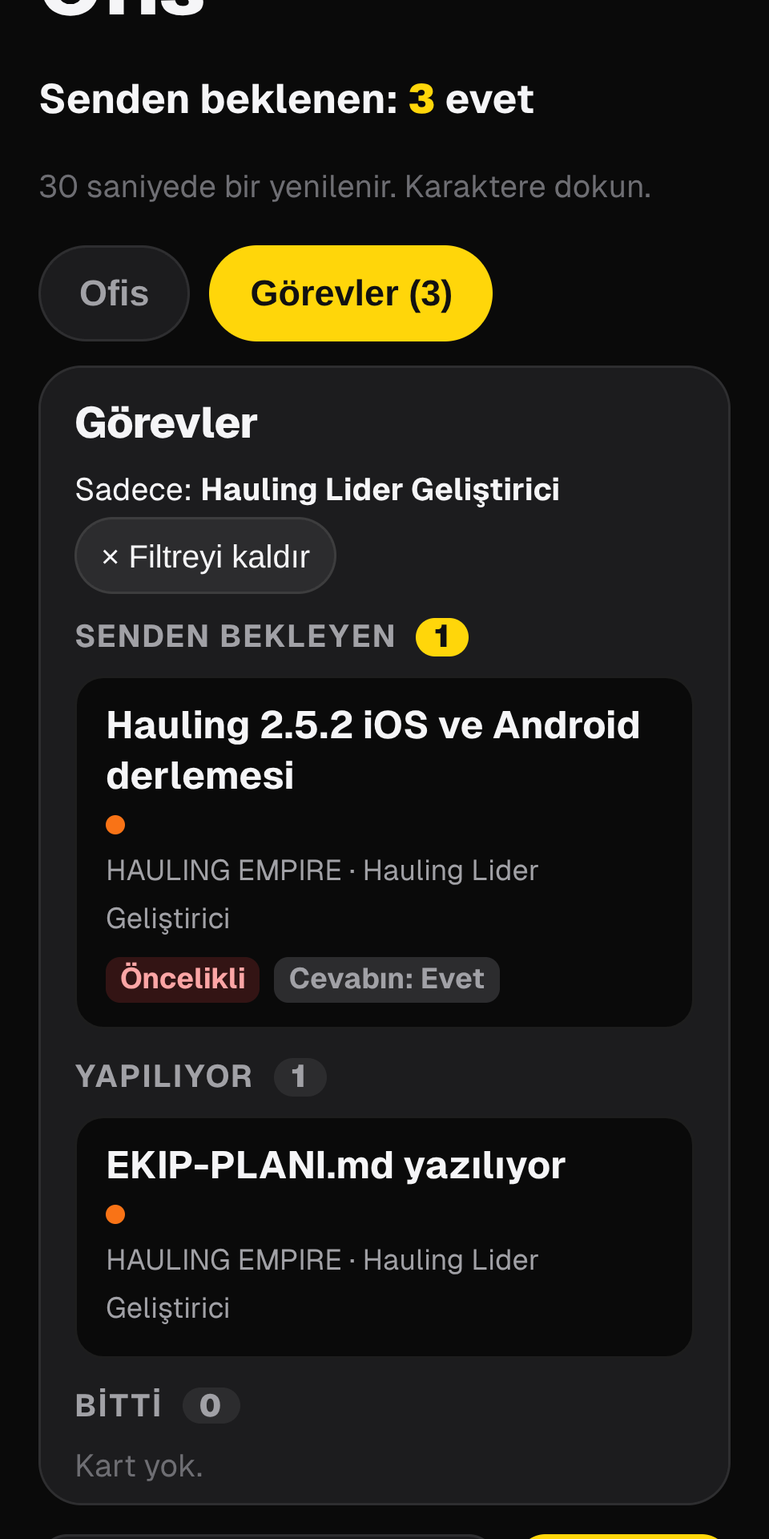
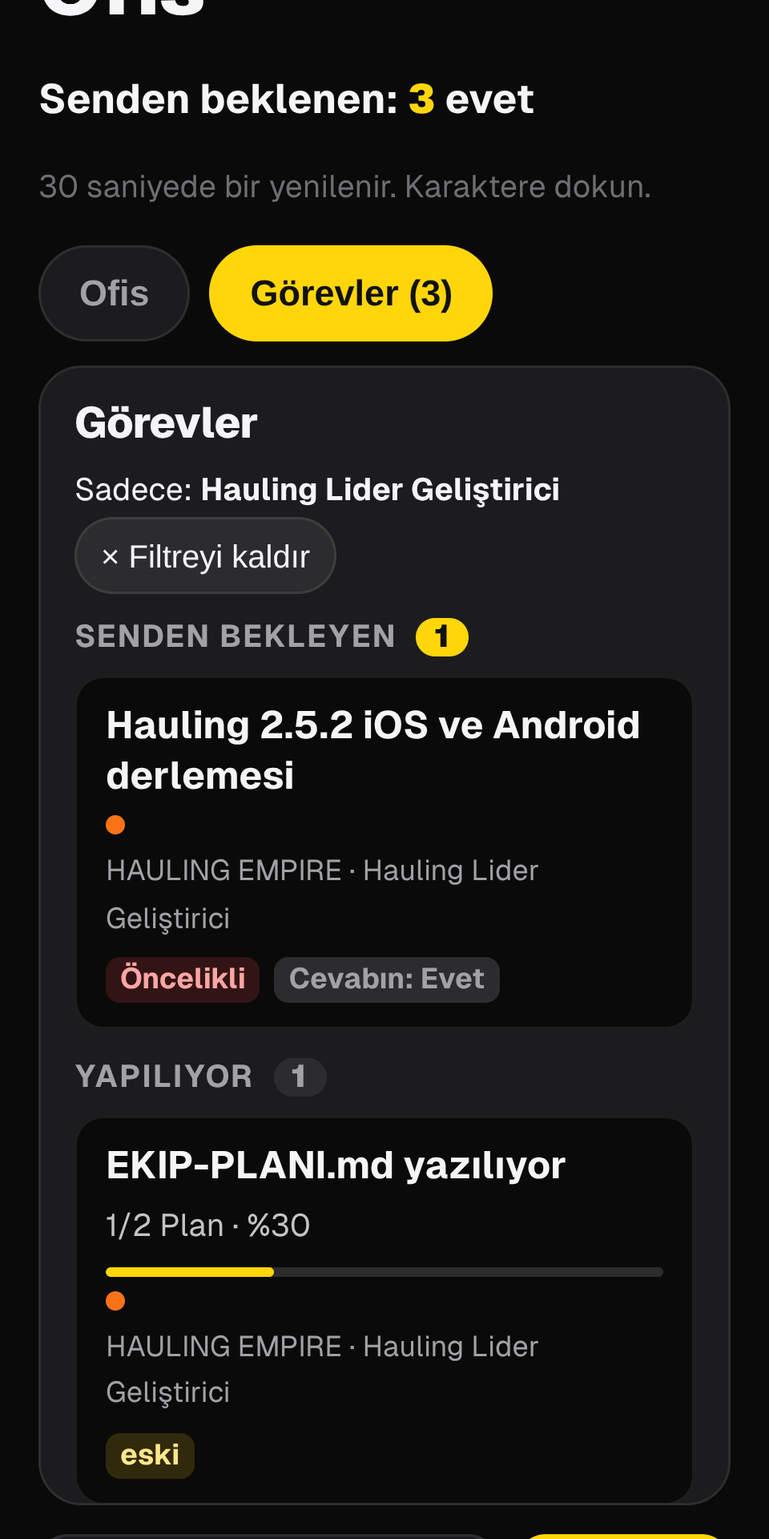
Admin Ofis: stage, progress and timeline on task cards (migration 0004, not applied)
office_tasks.stage and progress plus office_task_log; GET /v1/admin/office returns them with the last 10
timeline lines per open card and falls back to the old select until 0004 is applied. Cards show a stage
line and a progress bar, the drawer shows Geçmiş, doing cards untouched for 2 hours get an eski tag. Tests
and a screenshot. Not deployed.

Claude-Session: https://claude.ai/code/session_016Jsgeai3nmEVrWzNSNYGkb

diff --git a/web/landing/public/admin-office.js b/web/landing/public/admin-office.js
@@ -229,6 +229,11 @@ const tabCount = document.getElementById("of-tab-count");
 let boardFilter = null, openTaskId = null;
 const projectOf = (key) => (key === "ceo" ? CEO_DEPT : DEPTS.find((d) => d.key === key)) || { name: String(key || "-").toLocaleUpperCase("tr"), color: "#94a3b8" };
 const agentName = (id) => { const a = agents.find((x) => x.id === id); return a ? shortName(a.role) : id || "-"; };
+// Stage and timeline (founder 2026-11-14). A card in "Yapılıyor" untouched for 2 hours gets an "eski" tag.
+const STALE_MS = 2 * 60 * 60 * 1000;
+const lastTouch = (t) => Math.max(Date.parse(t.updated_at || "") || 0, ...(t.log || []).map((l) => Date.parse(l.at || "") || 0));
+const isStale = (t) => t.status === "doing" && lastTouch(t) > 0 && Date.now() - lastTouch(t) > STALE_MS;
+const pct = (t) => (Number.isFinite(Number(t.progress)) && t.progress !== null && t.progress !== "" ? Math.max(0, Math.min(100, Math.round(Number(t.progress)))) : null);
 const byPriority = (x, y) => (x.priority ?? 3) - (y.priority ?? 3) || String(x.created_at).localeCompare(String(y.created_at));
 function renderBoard() {
   if (!colsEl) return;
@@ -248,9 +253,12 @@ function renderBoard() {
       const p = projectOf(t.project);
       const b = el("button", { type: "button", class: "of-card", "data-task": t.id },
         el("span", { class: "of-card-t" }, t.title),
+        t.stage ? el("span", { class: "of-card-s" }, t.stage + (pct(t) !== null ? ` · %${pct(t)}` : "")) : null,
+        pct(t) !== null ? el("span", { class: "of-prog", role: "progressbar", "aria-valuenow": String(pct(t)), "aria-valuemin": "0", "aria-valuemax": "100", "aria-label": "İlerleme" }, el("i", { style: `width:${pct(t)}%` })) : null,
         el("span", { class: "of-card-m" }, el("i", { style: `--c:${p.color}` }), p.name, " · ", agentName(t.assignee_id),
           (t.priority ?? 3) === 1 ? el("span", { class: "of-pri" }, "Öncelikli") : null,
           t.fromAgent ? el("span", { class: "of-ans" }, "Oturumdan") : null,
+          isStale(t) ? el("span", { class: "of-old", title: "2 saattir güncelleme yok" }, "eski") : null,
           t.owner_answer ? el("span", { class: "of-ans" }, t.owner_answer === "yes" ? "Cevabın: Evet" : "Cevabın: Hayır") : null));
       b.addEventListener("click", () => openTask(t.id));
       return el("li", {}, b);
@@ -268,8 +276,17 @@ function openTask(id, keepNote) {
   const row = (k, v) => [el("dt", {}, k), el("dd", {}, v || "-")];
   document.getElementById("of-d-meta").replaceChildren(...row("Proje", p.name), ...row("Kimde", agentName(t.assignee_id)),
     ...row("Durum", TASK_STATUS[t.status] || t.status), ...row("Tür", KIND[t.kind] || t.kind), ...row("Öncelik", String(t.priority ?? 3)),
+    ...(t.stage ? row("Aşama", t.stage) : []), ...(pct(t) !== null ? row("İlerleme", "%" + pct(t)) : []),
+    ...row("Son hareket", ((ms) => (ms ? ny(new Date(ms).toISOString()) : "-"))(lastTouch(t) || Date.parse(t.created_at || "") || 0) + (isStale(t) ? " (2 saattir güncelleme yok)" : "")),
     ...row("Açıldı", ny(t.created_at)), ...(t.owner_answer ? row("Cevabın", (t.owner_answer === "yes" ? "Evet" : "Hayır") + (t.owner_note ? ": " + t.owner_note : "") + " (" + ny(t.answered_at) + ")") : []));
   document.getElementById("of-d-detail").textContent = t.detail || "";
+  // Timeline, newest first, New York time.
+  const hist = document.getElementById("of-d-hist"), log = t.log || [];
+  if (hist) {
+    hist.hidden = !log.length;
+    document.getElementById("of-d-log").replaceChildren(...[...log].sort((a, b) => String(b.at).localeCompare(String(a.at)))
+      .map((l) => el("li", {}, el("time", { datetime: l.at }, ny(l.at)), l.text)));
+  }
   const box = document.getElementById("of-d-answer");
   const oldNote = keepNote ? document.getElementById("of-d-note")?.value : null;
   if (t.status === "waiting_owner") {

diff --git a/web/landing/src/index.js b/web/landing/src/index.js
@@ -1247,6 +1247,12 @@ body.of-bare{margin:0;overflow:hidden}.of-fullpage{padding:0;margin:0;max-width:
 .of-pri{padding:0 6px;border-radius:6px;background:rgba(239,68,68,.18);color:#fca5a5;font-weight:700}
 .of-ans{padding:0 6px;border-radius:6px;background:var(--surface-2);color:inherit;font-weight:700}
 .of-col.done .of-card{opacity:.7}
+.of-card-s{display:block;margin-top:5px;font-size:13px;color:var(--fg,#e4e4e7);opacity:.85;overflow-wrap:anywhere}
+.of-prog{display:block;height:4px;margin-top:6px;border-radius:99px;background:var(--surface-2);overflow:hidden}.of-prog i{display:block;height:100%;border-radius:99px;background:var(--lime)}
+.of-old{padding:0 6px;border-radius:6px;background:rgba(250,204,21,.16);color:#fde68a;font-weight:700}
+.of-d-hist{margin:14px 0 0}.of-d-hist h4{margin:0 0 6px;font-size:14px;color:var(--muted)}
+.of-d-log{list-style:none;margin:0;padding:0 0 0 12px;border-left:2px solid var(--line);display:grid;gap:8px}
+.of-d-log li{font-size:14px;line-height:1.4;overflow-wrap:anywhere}.of-d-log time{display:block;font-size:12px;color:var(--muted)}
 .of-drawer{position:absolute;inset:0;padding:14px;background:var(--surface);overflow:auto}
 .of-d-back{min-height:40px;padding:0 12px;border-radius:10px;border:1px solid var(--line);background:var(--surface-2);color:inherit;font-weight:700;cursor:pointer;margin:0 0 10px}
 .of-drawer h3{margin:0 0 8px;font-size:18px;overflow-wrap:anywhere}.of-drawer dl{display:grid;grid-template-columns:auto 1fr;gap:4px 10px;margin:0 0 10px;font-size:14px}.of-drawer dt{color:var(--muted)}.of-drawer dd{margin:0;overflow-wrap:anywhere}
@@ -1272,7 +1278,7 @@ body.of-bare{margin:0;overflow:hidden}.of-fullpage{padding:0;margin:0;max-width:
     ? '<a class="of-tool" href="/admin/office">‹ Panele dön</a><button type="button" class="of-tool" id="of-board-toggle" aria-controls="of-board" aria-expanded="true">Görevler</button>'
     : '<button type="button" class="of-tool" id="of-full-btn">Tam ekran</button><a class="of-tool" href="/admin/office/full" target="_blank" rel="noopener">Yeni sekmede aç</a>'}<button type="button" class="of-tool of-tool-x" id="of-full-x" hidden>Kapat ×</button></div><div class="of-panel" id="of-panel" role="dialog" aria-modal="false" aria-labelledby="of-p-title"><button type="button" class="of-close" id="of-close" aria-label="Kapat">×</button><h2 id="of-p-title"></h2><dl id="of-p-body"></dl></div></div>
 <section class="of-board" id="of-board" aria-label="Görevler"><div class="of-b-head"><h2>Görevler</h2><p class="of-b-filter" id="of-b-filter" hidden></p></div><div id="of-b-cols"><p class="dim">Görev tablosu henüz yok.</p></div>
-<div class="of-drawer" id="of-drawer" role="dialog" aria-modal="false" aria-labelledby="of-d-title" hidden><button type="button" class="of-d-back" id="of-d-back">‹ Görevler</button><h3 id="of-d-title"></h3><dl id="of-d-meta"></dl><p class="of-d-detail" id="of-d-detail"></p><div id="of-d-answer"></div></div></section>
+<div class="of-drawer" id="of-drawer" role="dialog" aria-modal="false" aria-labelledby="of-d-title" hidden><button type="button" class="of-d-back" id="of-d-back">‹ Görevler</button><h3 id="of-d-title"></h3><dl id="of-d-meta"></dl><p class="of-d-detail" id="of-d-detail"></p><div id="of-d-answer"></div><section class="of-d-hist" id="of-d-hist" hidden><h4>Geçmiş</h4><ol class="of-d-log" id="of-d-log"></ol></section></div></section>
 </div>
 <form class="of-note" id="of-note"><label for="of-note-text">CEO'ya not bırak</label><textarea id="of-note-text" name="text" maxlength="1000" rows="1" placeholder="CEO'ya not bırak" required></textarea><button type="submit">Gönder</button></form>
 <p class="of-note-msg dim" id="of-note-msg" aria-live="polite"></p>

diff --git a/services/api/src/index.js b/services/api/src/index.js
@@ -1100,14 +1100,31 @@ app.get("/v1/admin/office", async (c) => {
     ).all()).results;
   } catch { mail = []; } // table not there yet
   // Task board (migration 0003): open cards plus cards finished in the last 7 days. null = table not there yet.
+  // Stage, progress and the last 10 timeline lines per card come with migration 0004 (founder 2026-11-14); before it
+  // is applied the older select still works and the cards simply have no stage or timeline.
   let tasks = null;
+  const taskWhere = `from office_tasks where status != 'done' or updated_at >= strftime('%Y-%m-%dT%H:%M:%fZ', 'now', '-7 days')
+       order by priority, created_at limit 300`;
+  const taskCols = "id, title, detail, project, assignee_id, status, kind, priority, owner_answer, owner_note, answered_at, created_at, updated_at";
   try {
-    tasks = (await c.env.OFFICE_DB.prepare(
-      `select id, title, detail, project, assignee_id, status, kind, priority, owner_answer, owner_note, answered_at, created_at, updated_at
-       from office_tasks where status != 'done' or updated_at >= strftime('%Y-%m-%dT%H:%M:%fZ', 'now', '-7 days')
-       order by priority, created_at limit 300`,
-    ).all()).results;
-  } catch { tasks = null; }
+    tasks = (await c.env.OFFICE_DB.prepare(`select ${taskCols}, stage, progress ${taskWhere}`).all()).results;
+  } catch {
+    try { tasks = (await c.env.OFFICE_DB.prepare(`select ${taskCols} ${taskWhere}`).all()).results; } catch { tasks = null; }
+  }
+  if (tasks && tasks.length) {
+    try {
+      const logs = (await c.env.OFFICE_DB.prepare(
+        `select task_id, at, text from (
+           select l.task_id, l.at, l.text, row_number() over (partition by l.task_id order by l.at desc) as n
+           from office_task_log l join office_tasks t on t.id = l.task_id
+           where t.status != 'done' or t.updated_at >= strftime('%Y-%m-%dT%H:%M:%fZ', 'now', '-7 days')
+         ) where n <= 10 order by task_id, at desc`,
+      ).all()).results;
+      const byTask = {};
+      for (const l of logs) (byTask[l.task_id] ||= []).push({ at: l.at, text: l.text });
+      for (const t of tasks) t.log = byTask[t.id] || [];
+    } catch { for (const t of tasks) t.log = []; } // timeline table not there yet
+  }
   // The founder's own notes with their status and the CEO's answer (founder 2026-11-13), newest first, read only.
   let notes = [];
   try {

diff --git a/CLAUDE.md b/CLAUDE.md
@@ -10,7 +10,7 @@ Status: validation stage. **promovote.com landing page is LIVE** (waitlist).
 ## Live infrastructure (Cloudflare)
 * Landing page: `web/landing/` (Cloudflare Worker + static assets). Deploy: `cd web/landing && npx wrangler deploy`. Custom domains promovote.com and www (www 301 to apex).
 * Waitlist: D1 `promovote-waitlist`, table `waitlist` (email, role, link, country, created_at). Count: `npx wrangler d1 execute promovote-waitlist --remote --command "SELECT role, COUNT(*) FROM waitlist GROUP BY role"`.
-* Admin: `promovote.com/admin` (HTTP Basic auth, password = Worker secret `ADMIN_PASSWORD` set by the founder in the dashboard; Claude does not know it). Navigation (founder request 2026-10-15): four product buttons (Durum, PromoVote, Hauling Empire, Poleris), then that product's pages. `/admin` is the status page (green / yellow / red per product, lists feed sections the product does not send yet). Pages (Turkish, founder request 2026-10-12): `/admin/bekleme` waitlist + CSV (`/admin/export.csv`), `/admin/visitors` (14 days), `/admin/x` (X posts and stats, read only from `promovote-db` via binding `APPDB`), `/admin/app-store` and `/admin/google-play` (Hauling Empire stats from its Supabase function `store-stats`, key in Worker secret `HE_STATS_KEY`, 1 h cache, plus a 30 day sales card), `/admin/hauling-empire/oyun` (in-game feed `store-stats?feed=ops`: online now, days, sales Apple and Google apart, products, subscriptions, online, funnel, health with color rules; 5 min cache). 7 / 30 / 90 day filter via `?range=`. Store pages have a product switcher `?p=haulingempire|poleris|promovote`; Poleris and PromoVote read `metrics_daily` (migration 0020), filled every 12 h by `services/api/src/stats.js` (Apple daily sales reports with key `ASC_STATS_*`, vendor 94642380; Google Play report files from bucket `PLAY_REPORTS_BUCKET` with `GOOGLE_PLAY_SA_JSON`) for all founder apps (PromoVote, Poleris, Hauling Empire, Dovelet, formerly Lovelet, internal id `lovelet`: Apple 6824002542, Play com.mhokutan.coupleapp, added 2026-10-17; Dovelet also gets its own ops feed later, key `LOVELET_STATS_KEY` made on the founder's computer, prompt `docs/prompts/lovelet-promovote.md`). Poleris stats endpoint (its own Supabase function `gcbcaunmxznaixwnnfux.supabase.co/functions/v1/store-stats`, same contract) uses Worker secret `POLERIS_STATS_KEY`; page `/admin/poleris/uygulama`, app tiles on its store pages; prompts in `docs/prompts/`. Plan for all products in `docs/09-metrics-hub.md`. Ad revenue page `/admin/unity-ads` (Hauling Empire group, founder request 2026-10-17; nav label "Reklam geliri"): LevelPlay Reporting API first when Worker secrets `LEVELPLAY_SECRET_KEY` and `LEVELPLAY_REFRESH_TOKEN` exist (same numbers as the LevelPlay site, all networks, 15 min cache, founder request 2026-10-22), else Unity Monetization Stats API (CSV, org level, split by game, platform, country, 1 h cache), Worker secrets `UNITY_ADS_KEY` and `UNITY_ORG_ID` entered by the founder. Store reviews page `/admin/yorumlar?p=<product>` (founder request 2026-11-09, "Yorumlar" in each product group, plus a status card): table `store_reviews` in `promovote-db` (migration 0023), filled by `services/api/src/reviews.js` on the `0 * * * *` job, one app per run, each about every 6 h; Apple from the App Store Connect API customerReviews with the `ASC_STATS_*` key (all countries, with your replies; the public RSS feed answers 403 to Workers and is only a fallback), Google from the monthly `reviews/` CSV in the Play reports bucket; reviewer names and devices are never stored; read only, replies stay in the store consoles. Office page `/admin/office` (founder request 2026-11-12, under Durum): the founder's Claude sessions in a roofless floor plan (version 2, 2026-11-12: one room per unit with half height walls, door gap and name board, project colors Hauling orange, Dropolis blue, PromoVote purple, Dovelet pink, shared units green, light wood floor; CC0 models only, Quaternius furniture and Kenney Mini Characters in `public/office/models`, sources in `web/landing/CREDITS.md`, under 5 MB; working types at the desk, idle sits back, waiting_owner stands with a yellow "!", blocked red light and "takıldı", offline room dark; a new office_agents row opens a new room; three.js 0.160.0 plus GLTFLoader, SkeletonUtils, OrbitControls vendored in `public/vendor`, script `public/admin-office.js`, plain list fallback, 30 s refresh; admin pages allow blob: images for the model textures). Data: its own D1 database `office-db` (founder decision 2026-11-12, nothing of the office in promovote-db), tables `office_agents` and `office_notes` (`services/api/office-migrations/0001_office.sql`); created, migrated and live since 2026-11-12, id `3419c845-6e07-4dca-97de-dde5446bf70f`, binding `OFFICE_DB` on promovote-api. Written only by the CEO session directly with the D1 tool (no write endpoint), read through `GET /v1/admin/office` on the API (SELECT only, `ADMIN_API_TOKEN`). Version 2 of the 3D view is live since 2026-11-12 (promovote-landing 2ea316c2). Version 3 (founder request 2026-11-13, live since 2026-11-13: promovote-api ac7e4a1c, promovote-landing fa6e829a): isometric open plan with white outer walls and windows, glass rooms per department (HAULING EMPIRE orange, DROPOLIS blue, PROMOVOTE purple, DOVELET pink, ORTAK BİRİMLER green, GENEL MÜDÜR next to the lounge, SALESFORCE teal and DOPAZON coral (2026-11-13), DİĞER for unknown ids, one empty room for later). Version 3.1 (52 person team, live since 2026-11-13: promovote-api 92dbaca4, promovote-landing 81b228ec): departments by id prefix and rooms sized by member count (mapping in `docs/office-ceo.md`; adds MAĞAZA VE BÜYÜME amber, SOSYAL MEDYA magenta, TEST PANELİ indigo), model tag from the brackets in role, bubbles shrink to status dots when space is short, API returns up to 200 rows, name bubbles with status dots, bottom bar "CEO'ya not bırak" (the only write: office_notes status new, `POST /admin/office/note` same origin, then `POST /v1/admin/office/notes`), mail walk animation from table `office_mail` (migration `office-migrations/0002_office_mail.sql`, applied 2026-11-13; last 10 minutes; shown ids kept in the browser). Task board "Görevler" (founder request 2026-11-13, code live since 2026-11-13: promovote-api fc805117, promovote-landing 757f6309): columns Senden bekleyen / Yapılıyor / Bitti / Takıldı from table `office_tasks` (migration `office-migrations/0003_office_tasks.sql`, applied 2026-11-13 through the Cloudflare D1 tool because the cloud session wrangler token has no D1 access; recorded by hand in `d1_migrations` so wrangler stays in sync), cards by priority then age, click a card for a drawer, waiting_owner cards get Evet/Hayır plus a note (the only new write: `POST /admin/office/task/:id/answer` same origin, then `POST /v1/admin/office/tasks/:id/answer`, sets only owner_answer/owner_note/answered_at on a waiting card), a tab on phone, a click on a person filters the board. CEO writes cards with the D1 tool. Fix 2026-11-13 (founder: list showed asks, board was empty): sessions asking on their own row (status waiting_owner or needs_owner) without an unanswered waiting card also show in "Senden bekleyen" with an "Oturumdan" tag; their Evet / Hayır is sent as an office_notes row ("EVET (<id>, <name>): <ask>"), remembered in that browser only; "Senden beklenen" counts both. "Notların" (2026-11-13): under the note box the founder sees the last 30 notes with status (Yeni / Okundu / Cevaplandı) and the CEO's answer, read only (GET /v1/admin/office returns `notes`). The CEO checks office_notes and office_tasks every 30 minutes (CEO side, 2026-11-13). Fix and Notların live since 2026-11-13 (promovote-api 02b8a19f, promovote-landing d21bceac). Big view (founder request 2026-11-13, live since 2026-11-13 with the same versions): "Tam ekran" button on the stage (Fullscreen API, falls back to covering the window on iOS Safari; Esc or "Kapat" leaves) and "Yeni sekmede aç" to `/admin/office/full` (same admin login, only the 3D office and the board as a side panel that opens and closes, whole window); drag pans, wheel and pinch zoom toward the pointer, right drag turns; on a stage 1400 px or wider idle and offline people get names when there is room. Screenshots in `docs/office-screenshots/`. CEO note in `docs/office-ceo.md`, tests `node --test web/landing/tests/office.test.mjs`. `keep_vars` is on; dashboard values must be Secrets.
+* Admin: `promovote.com/admin` (HTTP Basic auth, password = Worker secret `ADMIN_PASSWORD` set by the founder in the dashboard; Claude does not know it). Navigation (founder request 2026-10-15): four product buttons (Durum, PromoVote, Hauling Empire, Poleris), then that product's pages. `/admin` is the status page (green / yellow / red per product, lists feed sections the product does not send yet). Pages (Turkish, founder request 2026-10-12): `/admin/bekleme` waitlist + CSV (`/admin/export.csv`), `/admin/visitors` (14 days), `/admin/x` (X posts and stats, read only from `promovote-db` via binding `APPDB`), `/admin/app-store` and `/admin/google-play` (Hauling Empire stats from its Supabase function `store-stats`, key in Worker secret `HE_STATS_KEY`, 1 h cache, plus a 30 day sales card), `/admin/hauling-empire/oyun` (in-game feed `store-stats?feed=ops`: online now, days, sales Apple and Google apart, products, subscriptions, online, funnel, health with color rules; 5 min cache). 7 / 30 / 90 day filter via `?range=`. Store pages have a product switcher `?p=haulingempire|poleris|promovote`; Poleris and PromoVote read `metrics_daily` (migration 0020), filled every 12 h by `services/api/src/stats.js` (Apple daily sales reports with key `ASC_STATS_*`, vendor 94642380; Google Play report files from bucket `PLAY_REPORTS_BUCKET` with `GOOGLE_PLAY_SA_JSON`) for all founder apps (PromoVote, Poleris, Hauling Empire, Dovelet, formerly Lovelet, internal id `lovelet`: Apple 6824002542, Play com.mhokutan.coupleapp, added 2026-10-17; Dovelet also gets its own ops feed later, key `LOVELET_STATS_KEY` made on the founder's computer, prompt `docs/prompts/lovelet-promovote.md`). Poleris stats endpoint (its own Supabase function `gcbcaunmxznaixwnnfux.supabase.co/functions/v1/store-stats`, same contract) uses Worker secret `POLERIS_STATS_KEY`; page `/admin/poleris/uygulama`, app tiles on its store pages; prompts in `docs/prompts/`. Plan for all products in `docs/09-metrics-hub.md`. Ad revenue page `/admin/unity-ads` (Hauling Empire group, founder request 2026-10-17; nav label "Reklam geliri"): LevelPlay Reporting API first when Worker secrets `LEVELPLAY_SECRET_KEY` and `LEVELPLAY_REFRESH_TOKEN` exist (same numbers as the LevelPlay site, all networks, 15 min cache, founder request 2026-10-22), else Unity Monetization Stats API (CSV, org level, split by game, platform, country, 1 h cache), Worker secrets `UNITY_ADS_KEY` and `UNITY_ORG_ID` entered by the founder. Store reviews page `/admin/yorumlar?p=<product>` (founder request 2026-11-09, "Yorumlar" in each product group, plus a status card): table `store_reviews` in `promovote-db` (migration 0023), filled by `services/api/src/reviews.js` on the `0 * * * *` job, one app per run, each about every 6 h; Apple from the App Store Connect API customerReviews with the `ASC_STATS_*` key (all countries, with your replies; the public RSS feed answers 403 to Workers and is only a fallback), Google from the monthly `reviews/` CSV in the Play reports bucket; reviewer names and devices are never stored; read only, replies stay in the store consoles. Office page `/admin/office` (founder request 2026-11-12, under Durum): the founder's Claude sessions in a roofless floor plan (version 2, 2026-11-12: one room per unit with half height walls, door gap and name board, project colors Hauling orange, Dropolis blue, PromoVote purple, Dovelet pink, shared units green, light wood floor; CC0 models only, Quaternius furniture and Kenney Mini Characters in `public/office/models`, sources in `web/landing/CREDITS.md`, under 5 MB; working types at the desk, idle sits back, waiting_owner stands with a yellow "!", blocked red light and "takıldı", offline room dark; a new office_agents row opens a new room; three.js 0.160.0 plus GLTFLoader, SkeletonUtils, OrbitControls vendored in `public/vendor`, script `public/admin-office.js`, plain list fallback, 30 s refresh; admin pages allow blob: images for the model textures). Data: its own D1 database `office-db` (founder decision 2026-11-12, nothing of the office in promovote-db), tables `office_agents` and `office_notes` (`services/api/office-migrations/0001_office.sql`); created, migrated and live since 2026-11-12, id `3419c845-6e07-4dca-97de-dde5446bf70f`, binding `OFFICE_DB` on promovote-api. Written only by the CEO session directly with the D1 tool (no write endpoint), read through `GET /v1/admin/office` on the API (SELECT only, `ADMIN_API_TOKEN`). Version 2 of the 3D view is live since 2026-11-12 (promovote-landing 2ea316c2). Version 3 (founder request 2026-11-13, live since 2026-11-13: promovote-api ac7e4a1c, promovote-landing fa6e829a): isometric open plan with white outer walls and windows, glass rooms per department (HAULING EMPIRE orange, DROPOLIS blue, PROMOVOTE purple, DOVELET pink, ORTAK BİRİMLER green, GENEL MÜDÜR next to the lounge, SALESFORCE teal and DOPAZON coral (2026-11-13), DİĞER for unknown ids, one empty room for later). Version 3.1 (52 person team, live since 2026-11-13: promovote-api 92dbaca4, promovote-landing 81b228ec): departments by id prefix and rooms sized by member count (mapping in `docs/office-ceo.md`; adds MAĞAZA VE BÜYÜME amber, SOSYAL MEDYA magenta, TEST PANELİ indigo), model tag from the brackets in role, bubbles shrink to status dots when space is short, API returns up to 200 rows, name bubbles with status dots, bottom bar "CEO'ya not bırak" (the only write: office_notes status new, `POST /admin/office/note` same origin, then `POST /v1/admin/office/notes`), mail walk animation from table `office_mail` (migration `office-migrations/0002_office_mail.sql`, applied 2026-11-13; last 10 minutes; shown ids kept in the browser). Task board "Görevler" (founder request 2026-11-13, code live since 2026-11-13: promovote-api fc805117, promovote-landing 757f6309): columns Senden bekleyen / Yapılıyor / Bitti / Takıldı from table `office_tasks` (migration `office-migrations/0003_office_tasks.sql`, applied 2026-11-13 through the Cloudflare D1 tool because the cloud session wrangler token has no D1 access; recorded by hand in `d1_migrations` so wrangler stays in sync), cards by priority then age, click a card for a drawer, waiting_owner cards get Evet/Hayır plus a note (the only new write: `POST /admin/office/task/:id/answer` same origin, then `POST /v1/admin/office/tasks/:id/answer`, sets only owner_answer/owner_note/answered_at on a waiting card), a tab on phone, a click on a person filters the board. CEO writes cards with the D1 tool. Fix 2026-11-13 (founder: list showed asks, board was empty): sessions asking on their own row (status waiting_owner or needs_owner) without an unanswered waiting card also show in "Senden bekleyen" with an "Oturumdan" tag; their Evet / Hayır is sent as an office_notes row ("EVET (<id>, <name>): <ask>"), remembered in that browser only; "Senden beklenen" counts both. "Notların" (2026-11-13): under the note box the founder sees the last 30 notes with status (Yeni / Okundu / Cevaplandı) and the CEO's answer, read only (GET /v1/admin/office returns `notes`). The CEO checks office_notes and office_tasks every 30 minutes (CEO side, 2026-11-13). Fix and Notların live since 2026-11-13 (promovote-api 02b8a19f, promovote-landing d21bceac). Stage and timeline (founder request 2026-11-14, NOT deployed, migration `office-migrations/0004_office_task_stage.sql` NOT applied): `office_tasks.stage` and `progress` plus table `office_task_log`; each card shows a stage line and a progress bar, the drawer shows "Geçmiş" (last 10 lines, newest first, New York time), "doing" cards untouched for 2 h get an "eski" tag; the API falls back to the old select until 0004 is applied. SQL examples in `docs/office-ceo.md`. Big view (founder request 2026-11-13, live since 2026-11-13 with the same versions): "Tam ekran" button on the stage (Fullscreen API, falls back to covering the window on iOS Safari; Esc or "Kapat" leaves) and "Yeni sekmede aç" to `/admin/office/full` (same admin login, only the 3D office and the board as a side panel that opens and closes, whole window); drag pans, wheel and pinch zoom toward the pointer, right drag turns; on a stage 1400 px or wider idle and offline people get names when there is room. Screenshots in `docs/office-screenshots/`. CEO note in `docs/office-ceo.md`, tests `node --test web/landing/tests/office.test.mjs`. `keep_vars` is on; dashboard values must be Secrets.
 * X posts (queue `social_posts` in `promovote-db`, hourly cron, videos as `media_url` on promovote.com): X pay-per-use, a post with any URL costs $0.20, a plain post $0.015 (2026-10). Founder rule 2026-10-19, tightened 2026-10-22: no post carries a link (say "link in our profile" or "search ... on the App Store / Google Play"); video instead of link. 10 plain posts a day at 11/12/13/14/16/17/18/20/21/23 UTC (founder decision 2026-11-02, raised from 4 to use the X credit before it expires) plus at least 2 video posts a week, made by Claude with HyperFrames (`videos/promovote-x-launch`, `videos/promovote-x-duel` as templates, own synthesized music in `scripts/make_music.py`). Only exception: the iPhone launch day post. Videos must be H.264 MP4 in `web/landing/public/media/x/`.
 * Visit counter (cookieless, own): the Worker injects `public/v.js` into every HTML page; it posts to `/api/v`, rows go to D1 `promovote-waitlist` table `visits` (visitor = daily salted hash, no IP stored; salt in `visit_salt`). Bots, headless browsers and the admin's browser (`v-ignore.js` on /admin) are not counted.
 * Bot protection: Turnstile widget `promovote-waitlist`; secret stored as Worker secret `TURNSTILE_SECRET` (never commit it).

diff --git a/docs/office-ceo.md b/docs/office-ceo.md
@@ -67,3 +67,25 @@ unanswered waiting card also appears on the board ("Oturumdan" tag). The founder
 `office_notes` row like `EVET (empire-desktop, Hauling Masaüstü Derleme): Masaüstü oturumunda gönderim için bir kez evet`.
 After acting on it, clear the ask: `UPDATE office_agents SET needs_owner = NULL, status = 'working' WHERE id = '...';`
 Better: open a real card in `office_tasks` for each ask, then the answer lands on the card itself.
+
+## Stage, progress and timeline (2026-11-14)
+
+Migration `services/api/office-migrations/0004_office_task_stage.sql` (apply only after the founder's yes) adds
+`office_tasks.stage` (text up to 120, for example `2/5 Reklam düzeltmesi`), `office_tasks.progress` (0 to 100) and
+the table `office_task_log` (id, task_id, at, text up to 300). The board shows the stage line and a thin progress bar
+on each card; the card's drawer shows the timeline, newest first, in New York time (the API sends the last 10 lines
+per card). A card in "Yapılıyor" with no change for 2 hours (neither `updated_at` nor a new log line) gets an "eski"
+tag, so keep `updated_at` fresh whenever you move a card.
+
+Move a card to its next stage and log it (two statements, run together):
+
+```sql
+UPDATE office_tasks SET stage = '2/5 Reklam düzeltmesi', progress = 40, status = 'doing',
+       updated_at = strftime('%Y-%m-%dT%H:%M:%fZ','now') WHERE id = '<task id>';
+INSERT INTO office_task_log (id, task_id, text)
+VALUES (lower(hex(randomblob(16))), '<task id>', 'Hauling QA reklam akışını düzeltti, test oyuncusuna verildi');
+```
+
+Read a card's timeline: `SELECT at, text FROM office_task_log WHERE task_id = '<task id>' ORDER BY at DESC LIMIT 10;`
+Stuck cards (what the "eski" tag shows): `SELECT id, title, stage, updated_at FROM office_tasks WHERE status = 'doing' AND updated_at < strftime('%Y-%m-%dT%H:%M:%fZ','now','-2 hours');`
+Log text is short work text only: no personal data, keys or player names.
